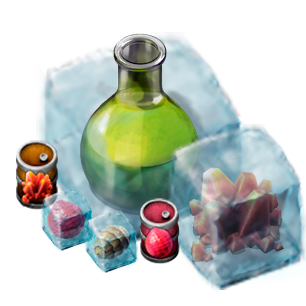
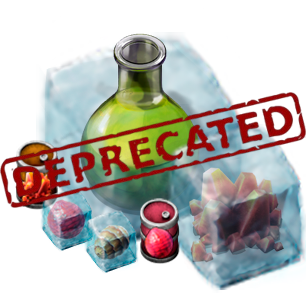
refactor: migrate to Spoilage Solution and More

Changed region(s): [[0.0, 0.2941, 1.0, 0.6765]]

diff --git a/README.md b/README.md
@@ -1,31 +1,6 @@
 [![The Foundry](https://img.shields.io/badge/foundrygg-4a1402?style=for-the-badge&logo=vercel&logoColor=white)](https://foundrygg.com/)
 [![Discord community](https://img.shields.io/badge/Discord-%235865F2.svg?style=for-the-badge&logo=discord&logoColor=white)](https://discord.gg/SYmkaDjFCt)
-[![Factorio mod portal](https://img.shields.io/factorio-mod-portal/dt/spoilage-solution-aquilo-seabloom-algaculture?style=for-the-badge&logo=data%3Aimage%2Fx-icon%3Bbase64%2CAAABAAEAEBAAAAEACABoBQAAFgAAACgAAAAQAAAAIAAAAAEACAAAAAAAAAEAAAAAAAAAAAAAAAEAAAAAAAAAAAAALzAtABIVFwBBOSwAISYpAB0iJACTfFQAICQnAEk%2FLAAcICIAsZZlADs4MABsXUIAd2hMAINzVgChi2QAPTozAIt6WwAWGhsAs5prABwgIwC1nG4AKSglAEpGOwBhVDwAGx4hAGJUPABoXkkAMiwiAGleSQCwmW8AtJpsALigdABnXEcAi3ZPAFhNOACDb0sAIicqAEtCLwAxMzEAEhQWAE1EMgAgJSgAISUoAJV%2FWACrkmQAHyMmAIFwUgAbHyEAsJVkAG5gRgAXGxwAHSEkAKCKYwCzmWoAsJhtACIhHAAbHyIAeWtRADo3MACxmnAAtZttACMoKgAaHSAAPzcoABYZGwASFRYAX1ZEAINwTABKRTsAIygrAJqDWABoXUkAHyQmAAAAAAAAAAAAAAAAAAAAAAAAAAAAAAAAAAAAAAAAAAAAAAAAAAAAAAAAAAAAAAAAAAAAAAAAAAAAAAAAAAAAAAAAAAAAAAAAAAAAAAAAAAAAAAAAAAAAAAAAAAAAAAAAAAAAAAAAAAAAAAAAAAAAAAAAAAAAAAAAAAAAAAAAAAAAAAAAAAAAAAAAAAAAAAAAAAAAAAAAAAAAAAAAAAAAAAAAAAAAAAAAAAAAAAAAAAAAAAAAAAAAAAAAAAAAAAAAAAAAAAAAAAAAAAAAAAAAAAAAAAAAAAAAAAAAAAAAAAAAAAAAAAAAAAAAAAAAAAAAAAAAAAAAAAAAAAAAAAAAAAAAAAAAAAAAAAAAAAAAAAAAAAAAAAAAAAAAAAAAAAAAAAAAAAAAAAAAAAAAAAAAAAAAAAAAAAAAAAAAAAAAAAAAAAAAAAAAAAAAAAAAAAAAAAAAAAAAAAAAAAAAAAAAAAAAAAAAAAAAAAAAAAAAAAAAAAAAAAAAAAAAAAAAAAAAAAAAAAAAAAAAAAAAAAAAAAAAAAAAAAAAAAAAAAAAAAAAAAAAAAAAAAAAAAAAAAAAAAAAAAAAAAAAAAAAAAAAAAAAAAAAAAAAAAAAAAAAAAAAAAAAAAAAAAAAAAAAAAAAAAAAAAAAAAAAAAAAAAAAAAAAAAAAAAAAAAAAAAAAAAAAAAAAAAAAAAAAAAAAAAAAAAAAAAAAAAAAAAAAAAAAAAAAAAAAAAAAAAAAAAAAAAAAAAAAAAAAAAAAAAAAAAAAAAAAAAAAAAAAAAAAAAAAAAAAAAAAAAAAAAAAAAAAAAAAAAAAAAAAAAAAAAAAAAAAAAAAAAAAAAAAAAAAAAAAAAAAAAAAAAAAAAAAAAAAAAAAAAAAAAAAAAAAAAAAAAAAAAAAAAAAAAAAAAAAAAAAAAAAAAAAAAAAAAAAAAAAAAAAAAAAAAAAAAAAAAAAAAAAAAAAAAAAAAAAADExMTExEyAgEzExMTExADExMRMVCi8EBC8KFTYxMTExMT0OGx5DJSVDHkgRHzExMTEyB0YnRiUlPidGBw0xMTExGi5GJS4JOS4lRkkpMTExHzcrRi4SHEBBLkYrNxUKMTpFRiUURDExRAklRhchLTE%2FKyU%2BCzExMTE7JSUqGSwxAj8qRgEVCgoVEEYqPwIGMSQMSUYlHTw8HSVGSQwiMTExDwclJSVGRiUlPgc1MTExMQMwNBQuJSUuFAU5IzExMTEiOEImFklJFiYCKCQxMTExMUckMRgzMxgxJCIxMTExMTExMTEiCAgiMTExMTExADExMTExMTExMTExMTExAIABAAAAAAAAAAAAAAAAAAAAAAAAAAAAAAAAAAAAAAAAAAAAAAAAAAAAAAAAAAAAAAAAAAAAAAAAAAAAAIABAAA%3D&color=orange&labelColor=rgb(111,148,173))](https://mods.factorio.com/mod/spoilage-solution-aquilo-seabloom-algaculture)
-[![Crowdin translate](https://img.shields.io/badge/Crowdin-Translate-cornflowerblue?style=for-the-badge)](https://crowdin.com/project/factorio-mods-localization)
-[![GitHub issues: bugs](https://img.shields.io/github/issues/QuingKhaos/spoilage-solution-aquilo-seabloom-algaculture/bug?label=Bug%20Reports&style=for-the-badge&logo=github)](https://github.com/QuingKhaos/spoilage-solution-aquilo-seabloom-algaculture/issues?q=is%3Aissue%20state%3Aopen%20label%3Abug)
-[![GitHub pull requests](https://img.shields.io/github/issues-pr/QuingKhaos/spoilage-solution-aquilo-seabloom-algaculture?label=Pull%20Requests&style=for-the-badge&logo=github)](https://github.com/QuingKhaos/spoilage-solution-aquilo-seabloom-algaculture/pulls)
 
-# Spoilage Solution for Wooden Aquilo: Seabloom Algaculture
+# [DEPRECATED] Spoilage Solution Tweaks
 
-Adds [spoilage solution](https://mods.factorio.com/mod/spoilage-solution-fork) support to [Seabloom Algaculture](https://mods.factorio.com/mod/aquilo-seabloom-algaculture).
-
-## All my Spoilage Solution mods
-
-- [Spoilage Solution Library][lib] - Small library to create canned and frozen perishables for Spoilage Solution.
-- [Spoilage Solution Tweaks][tweaks] - Opinionated tweaks to Spoilage Solution.
-- [Spoilage Solution for Wooden Aquilo: Seabloom Algaculture][aquilo-seabloom-algaculture] - Adds spoilage solution
-  support to Seabloom Algaculture.
-- [Spoilage Solution for Boompuff Agriculture][boompuff-agriculture] - Adds spoilage solution support to Boompuff Agriculture.
-- [Spoilage Solution for Fluroflux: Stingfrond Agriculture][fluroflux] - Adds spoilage solution support to Fluroflux:
-  Stingfrond Agriculture.
-- [Spoilage Solution for Wooden Fulgora: Coralmium Agriculture][fulgora-coralmium-agriculture] - Adds spoilage solution
-  support to Coralmium Agriculture.
-- [Spoilage Solution for pHactorio][pHactorio] - Adds spoilage solution support to pHactorio.
-
-[lib]: https://mods.factorio.com/mod/spoilage-solution-lib
-[tweaks]: https://mods.factorio.com/mod/spoilage-solution-tweaks
-[aquilo-seabloom-algaculture]: https://mods.factorio.com/mod/spoilage-solution-aquilo-seabloom-algaculture
-[boompuff-agriculture]: https://mods.factorio.com/mod/spoilage-solution-boompuff-agriculture
-[fluroflux]: https://mods.factorio.com/mod/spoilage-solution-fluroflux
-[fulgora-coralmium-agriculture]: https://mods.factorio.com/mod/spoilage-solution-fulgora-coralmium-agriculture
-[pHactorio]: https://mods.factorio.com/mod/spoilage-solution-pHactorio
+Functionality migrated to [Spoilage Solution and More](https://mods.factorio.com/mod/spoilage-solution-and-more).